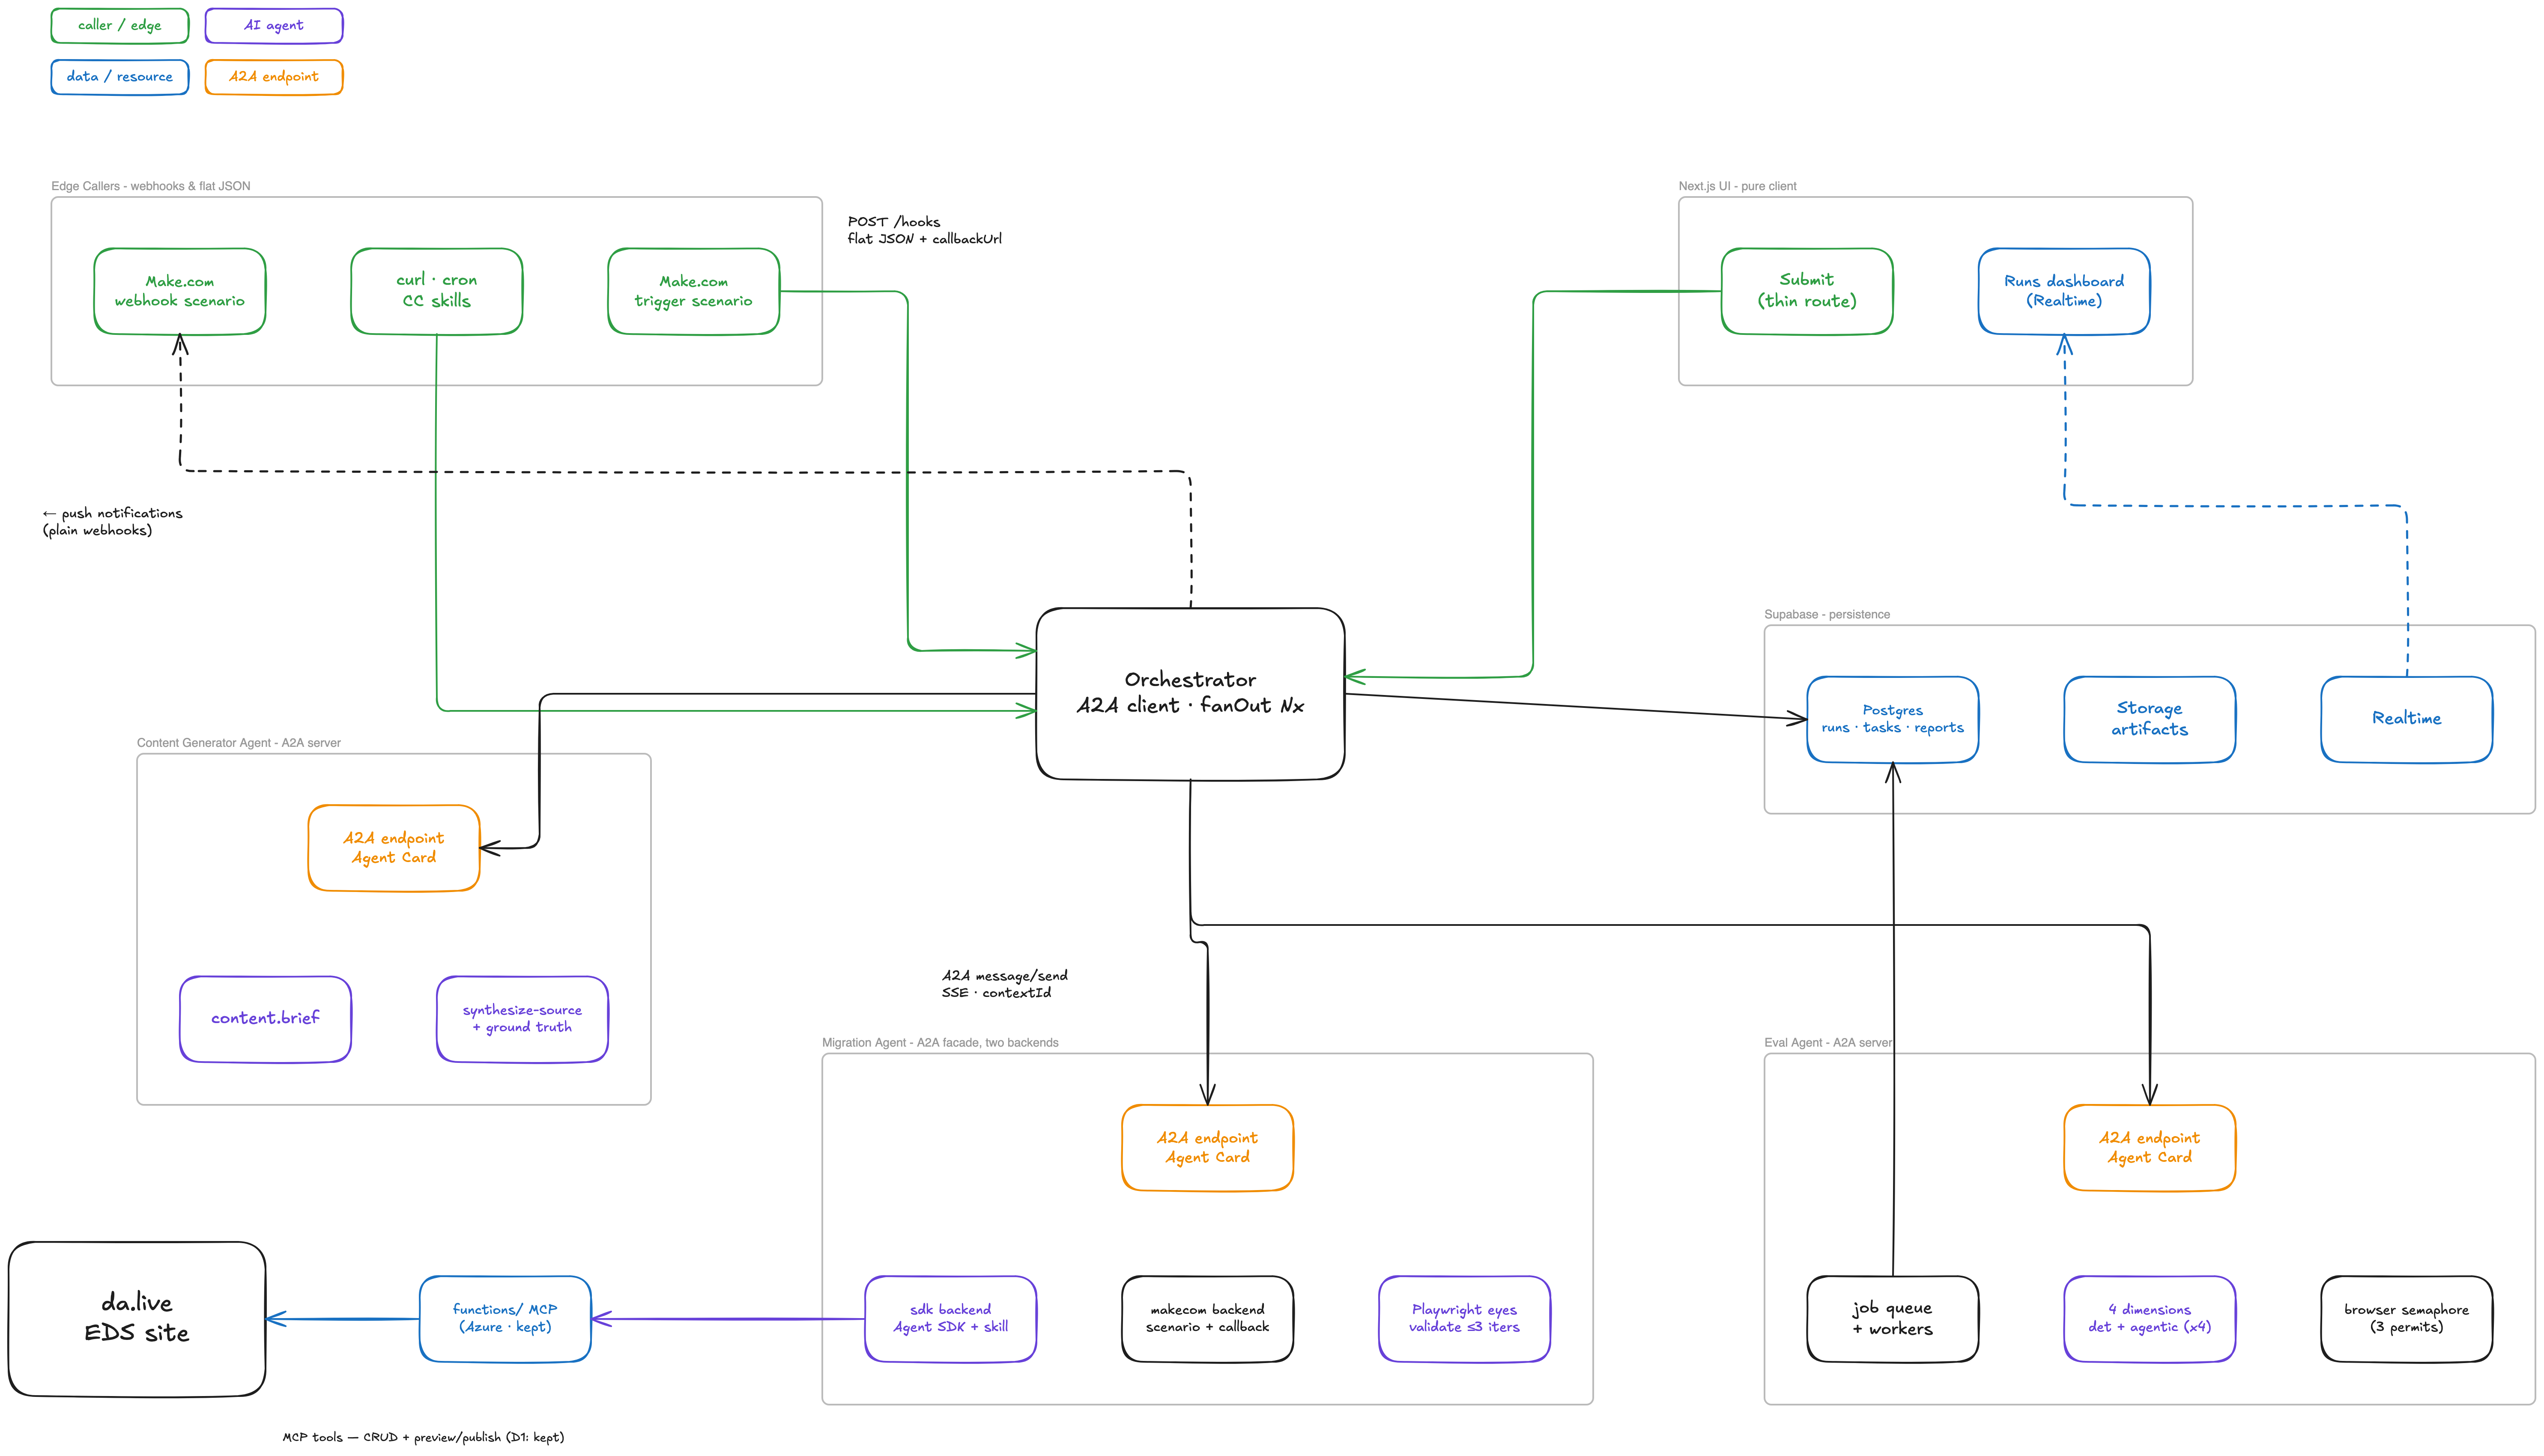
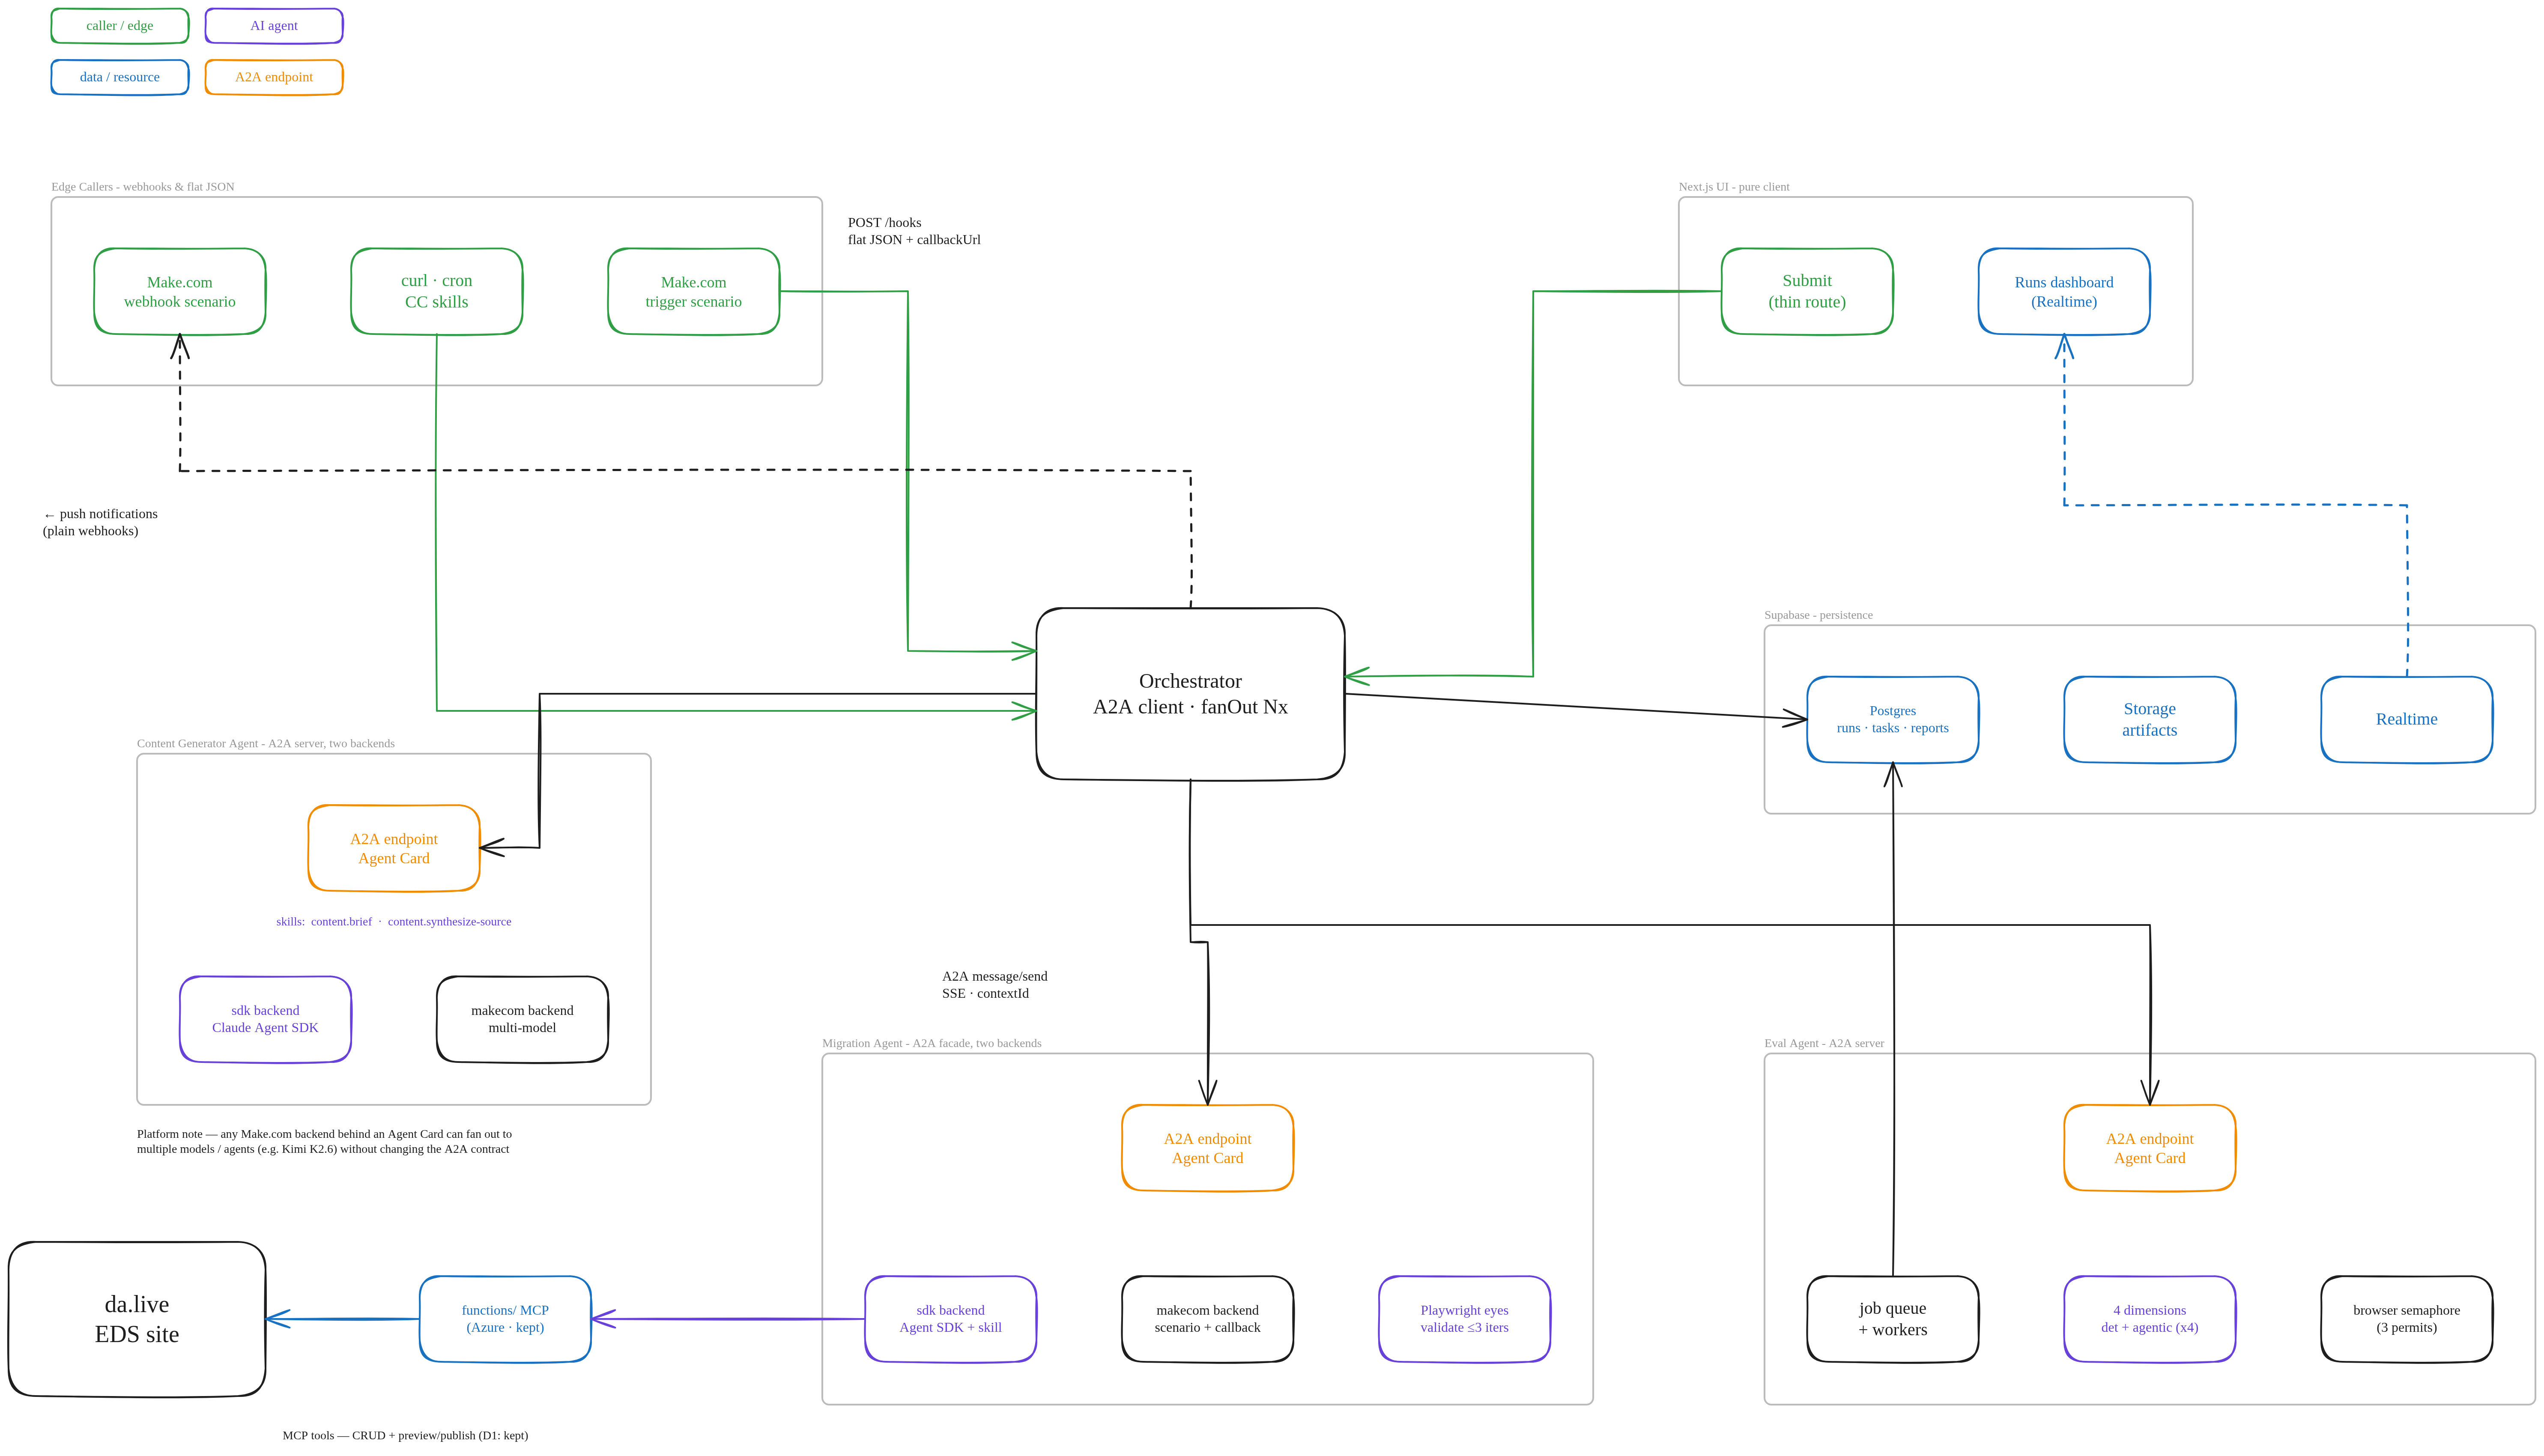
docs(a2a): one-card content-gen backends + intelligent orchestrator
Two design refinements to the A2A agent platform PRD and its diagrams:

Content generation as one Agent Card (architecture diagram + Parts 1/3/4):
- Content-Gen now mirrors the Migration agent: a single Agent Card over
  two pluggable backends (Claude Agent SDK; Make.com scenario), instead of
  being shown as two loose skill boxes.
- Make.com stays a backend of the Migration agent too.
- New platform-wide note: any Make.com backend behind an Agent Card can
  fan out to multiple models/agents (e.g. Kimi K2.6) without changing the
  A2A contract. Documented once in Part 3, referenced from Parts 4/5 and
  the diagram legend.

Intelligent, non-deterministic orchestrator (closed-loop diagram + Parts 1/6):
- Recast the closed-loop pipeline from a fixed Generate -> Migrate ->
  Evaluate -> Aggregate flow into an intelligent content orchestrator that
  enters and exits at any stage based on intent + current content state.
- Work no longer must start at generation (content exists -> migrate;
  already migrated -> evaluate) and need not end in evaluation.
- Added an agentic-planner section and a routing table to Part 6; the
  explicit fanOut pipeline spec becomes opt-in deterministic mode for
  variance experiments. M3 milestone now tracks intelligent routing.

Both PNGs regenerated from the edited .excalidraw sources.

diff --git a/ai-docs/2026-06-05-a2a-agent-platform/part-6-orchestration-ui-rollout.md b/ai-docs/2026-06-05-a2a-agent-platform/part-6-orchestration-ui-rollout.md
@@ -2,12 +2,34 @@
 
 ## Orchestrator
 
-An **A2A client**, not a server — plain TypeScript that composes the three agents. Two faces:
+An **A2A client**, not a server — plain TypeScript that composes the three agents. But it is **not a fixed pipeline**: it is an *intelligent content orchestrator* that, given an intent and the current state of the content, decides which capabilities to invoke. Two faces:
 
 1. **CLI** (`agents/orchestrator`) — primary interface for development and the adaptTo() demo terminal moments
 2. **Thin HTTP trigger** — one endpoint so the UI (and Make.com, and cron) can launch pipelines
 
-### Pipeline Spec
+### Intelligent routing (default mode)
+
+The headline closed loop — *generate → migrate → evaluate* — is **one route, not the only one**. The orchestrator runs a small agentic planner (a Claude Agent SDK `query()` with the three Agent Cards as available tools) that inspects the request and the current state, then chooses the stages:
+
+| Starting state / intent | Route the orchestrator takes |
+|---|---|
+| Net-new, no source yet | Generate → Migrate → Evaluate |
+| Source already exists (PDF/URL/synthetic) | **Migrate → Evaluate** (skip generate) |
+| Already migrated to EDS | **Evaluate only** |
+| "Author this net-new content" (no quality gate asked for) | Generate → Migrate, **stop** (no eval) |
+| "Just generate a brief" | Generate, **stop** |
+| Fan-out consistency experiment | Generate → Migrate → Evaluate, **repeat Nx → aggregate** |
+
+Principles:
+
+- **Any subset, any order.** Generate, migrate, and evaluate are independently-addressable capabilities; the orchestrator calls only the ones the goal requires.
+- **No mandatory start.** Work does not have to begin at generation — if content already exists it begins at migrate; if already migrated it begins at evaluate.
+- **No mandatory end.** It need not finish in evaluation; it stops when the stated goal is met (a published page, a brief, a score — whatever was asked for).
+- **Deterministic when you want it.** For repeatable variance experiments, hand it an explicit pipeline spec (below) and it skips the planner — same agents, no improvisation. Intelligence is the default; determinism is opt-in.
+
+State detection inputs the planner reads: presence/type of `sourceLocation`, whether a `previewUrl`/published page already exists for the target slug (via the migration agent or a da.live lookup), and the explicit `goal` field on the request.
+
+### Pipeline Spec (explicit / deterministic mode)
 
 ```jsonc
 {
@@ -56,7 +78,7 @@ Versioning/deploy: keeps riding the existing tag-driven Oracle deploy (`deploy-c
 |---|---|---|---|
 | **M1 — Headless eval core** | end of June | `agents/eval-service` with engine moved, job queue, Supabase persistence, browser semaphore. A2A server with minimal `message/send` + `tasks/get`. | Part 2 definition of done |
 | **M2 — A2A complete + orchestrator MVP** | mid-July | `a2a-common` hardened: SSE streaming, push notifications, Supabase task store. Orchestrator CLI runs an eval-only batch (fanOut over a URL list — feature parity with today's batch mode). Make.com webhook round-trip proven on one toy task. | Old batch routes deletable; Make.com callback demo recorded |
-| **M3 — Closed loop 1x** | mid-August | Content-gen agent (both modes). Migration facade with `sdk` backend; `makecom` backend callback wired. One full synthesize → migrate → eval chain via orchestrator. | Part 4 + Part 5 definitions of done |
+| **M3 — Closed loop 1x + intelligent routing** | mid-August | Content-gen agent (both skills, `sdk` backend). Migration facade with `sdk` backend; `makecom` backend callback wired. One full synthesize → migrate → eval chain via orchestrator, **plus the agentic planner** that skips stages by state (source supplied → migrate→eval; already migrated → eval only; brief-only → stop). | Part 4 + Part 5 definitions of done; orchestrator demonstrates ≥3 distinct routes incl. a non-eval-terminating one |
 | **M4 — Nx + variance + UI v2** | end of August | `fanOut: 10` stable within concurrency budget; variance stats; Runs/Run-detail/Variance UI on Realtime; localStorage deleted. | 10x run completes unattended overnight; UI shows it live |
 | **M5 — Hardening + demo** | early September | Failure-path polish, seed demo content, scripted demo (CLI + UI + Supabase-MCP conversational query), talk materials. | Dry-run demo end-to-end twice without manual intervention |
 

diff --git a/ai-docs/2026-06-05-a2a-agent-platform/part-4-content-generator-agent.md b/ai-docs/2026-06-05-a2a-agent-platform/part-4-content-generator-agent.md
@@ -43,18 +43,33 @@ Generates a complete **synthetic "legacy" source page** — standalone HTML (opt
 
 `groundTruth` is the quiet superpower: the eval agent's content dimension can compare against *known-correct* extraction instead of re-parsing the source — a new optional `sourceType: "ground-truth"` input variant worth adding to `eval.run.v2` later. v1: just pass the `sourceUrl` as a normal webpage source.
 
+Both skills carry a `backend: "sdk" | "makecom"` field (default `"sdk"`), exactly as `migration.run` does (Part 5) — same contract, swappable runtime.
+
+## Backends (two, pluggable)
+
+Like the migration agent, content-gen is **one Agent Card over two backends**. The skill contract is identical; only the runtime changes.
+
+### Backend A — `sdk` (canonical)
+Claude Agent SDK `query()` directly in-process. Cheapest path, fully in-repo, no external dependency. The default for development and the variance experiments.
+
+### Backend B — `makecom`
+A Make.com scenario behind the same A2A facade (webhook trigger + callback, identical mechanics to Part 5's migration `makecom` backend). This is where **multi-model fan-out** lives: a Make.com scenario can route generation across several models/agents — e.g. the **Kimi K2.6** Chinese model — and the facade still completes one A2A task with the same artifact. See Part 3 for the platform-wide note: *any Make.com backend behind an Agent Card can use multiple models without changing the A2A contract.*
+
 ## Implementation
 
 ```
 agents/content-gen/
   src/
     a2a/          # standard wiring from a2a-common
-    skills/       # brief.ts, synthesize.ts — each a Claude Agent SDK query() invocation
+    skills/       # brief.ts, synthesize.ts — the skill-level logic (backend-agnostic)
+    backends/
+      sdk.ts      # Claude Agent SDK query() invocation
+      makecom.ts  # webhook trigger + callback receiver (multi-model capable)
     prompts/      # versioned JSON prompt files, same convention as eval-service prompts
     publish.ts    # Supabase Storage upload + public URL resolution
 ```
 
-- Claude Agent SDK `query()` with model `claude-sonnet-4-6`; `WebFetch`-style access only for reading the block library page; **no Playwright needed** (cheapest agent in the mesh — no browser permits required)
+- `sdk` backend: Claude Agent SDK `query()` with model `claude-sonnet-4-6`; `WebFetch`-style access only for reading the block library page; **no Playwright needed** (cheapest agent in the mesh — no browser permits required)
 - Brief mode is a near-pure LLM call; synthesize mode emits a single self-contained HTML file (inline CSS, picsum/placeholder images or generated SVG) — no asset pipeline in v1
 - Prompts versioned in-repo like `make-dot-com/` conventions (v1-brief.md etc.), but these ARE deployed with the service (unlike Make.com prompts)
 

diff --git a/ai-docs/2026-06-05-a2a-agent-platform/README.md b/ai-docs/2026-06-05-a2a-agent-platform/README.md
@@ -12,13 +12,15 @@
 
 Reboot the monorepo around **decoupled, independently-addressable AI agents** that communicate via the **A2A protocol** (Linux Foundation, spec v1.0):
 
-- **Content Generator Agent** (new) — generates content briefs and synthetic "legacy" source pages
-- **Migration Agent** (exists as Make.com prompt + skills) — authors content into da.live via the custom MCP server, validates with Playwright "agentic eyes"
+- **Content Generator Agent** (new) — generates content briefs and synthetic "legacy" source pages. One Agent Card, two pluggable backends (Claude Agent SDK; Make.com scenario), mirroring the Migration agent
+- **Migration Agent** (exists as Make.com prompt + skills) — authors content into da.live via the custom MCP server, validates with Playwright "agentic eyes". One Agent Card, two backends (Agent SDK; Make.com)
 - **Eval Agent** (exists, coupled) — extracted from the Next.js app into a headless, job-based, parallelizable service
-- **Orchestrator** (new) — A2A client that runs pipelines 1x or Nx (generate → migrate → eval), with concurrency budgets and variance reporting
+- **Orchestrator** (new) — an **intelligent** A2A client that, given an intent and a starting state, decides *which* of generate / migrate / evaluate are needed — it is not a fixed pipeline. Runs 1x or Nx with concurrency budgets and variance reporting
 - **UI** (exists, rebuilt as pure client) — Next.js reads Supabase; localStorage and in-memory batch Maps are retired
 
-The closed loop — *generate synthetic source → migrate to EDS → eval the result, 10 times in parallel, with aggregate scoring* — is the headline capability.
+The generate → migrate → eval closed loop — *synthesize source → migrate to EDS → eval the result, 10 times in parallel, with aggregate scoring* — is the headline capability, but it is **one route the orchestrator can take, not the only one**: when content already exists it starts at migrate; when content is already migrated it starts at evaluate; and it can stop after any stage once the goal is met.
+
+> **Agent Card pattern (platform-wide)**: a single Agent Card fronts pluggable backends (Agent SDK or Make.com). Any Make.com backend can itself fan out to multiple models/agents — e.g. the Kimi K2.6 Chinese model — without changing the A2A contract.
 
 ## Decisions Log (2026-06-05)
 
@@ -35,9 +37,9 @@ The closed loop — *generate synthetic source → migrate to EDS → eval the r
 | 1 | [part-1-architecture.md](./part-1-architecture.md) | System overview, agent roster, unifying interface, monorepo layout, tech stack |
 | 2 | [part-2-eval-service.md](./part-2-eval-service.md) | Decoupling the eval engine: current coupling audit, headless service, Supabase schema, browser pool, parallelization |
 | 3 | [part-3-a2a-protocol-layer.md](./part-3-a2a-protocol-layer.md) | A2A SDK adoption: Agent Cards, Task lifecycle, streaming, push notifications, Make.com interop, auth |
-| 4 | [part-4-content-generator-agent.md](./part-4-content-generator-agent.md) | New agent: brief mode + synthetic-source mode, contracts, prompts |
-| 5 | [part-5-migration-agent.md](./part-5-migration-agent.md) | Wrapping migration as an A2A agent with two backends (Make.com scenario, Agent SDK + skills); Playwright concurrency |
-| 6 | [part-6-orchestration-ui-rollout.md](./part-6-orchestration-ui-rollout.md) | Orchestrator, Nx fan-out + variance reporting, UI rebuild, milestones to adaptTo(), risks, open questions |
+| 4 | [part-4-content-generator-agent.md](./part-4-content-generator-agent.md) | New agent: brief mode + synthetic-source mode, two backends (Agent SDK / Make.com), contracts, prompts |
+| 5 | [part-5-migration-agent.md](./part-5-migration-agent.md) | Wrapping migration as an A2A agent with two backends (Agent SDK + skills, Make.com scenario); Playwright concurrency |
+| 6 | [part-6-orchestration-ui-rollout.md](./part-6-orchestration-ui-rollout.md) | Orchestrator (intelligent routing + Nx fan-out + variance reporting), UI rebuild, milestones to adaptTo(), risks, open questions |
 
 ## In Scope
 

diff --git a/ai-docs/2026-06-05-a2a-agent-platform/part-1-architecture.md b/ai-docs/2026-06-05-a2a-agent-platform/part-1-architecture.md
@@ -4,11 +4,13 @@
 
 One **unifying interface** (the A2A Task) over **decoupled capabilities** (agents). Anything that can speak HTTP + JSON-RPC can drive any agent: the orchestrator, Make.com, a Claude Code skill, curl, or another agent. Anything that can receive a webhook can be notified when work completes. Run a pipeline once interactively, or fan it out 10x and aggregate — same interface, no code change in the agents.
 
+The driver above the agents is an **intelligent orchestrator**, not a hard-coded pipeline: given an intent and the current state of the content, it decides which capabilities to invoke (generate, migrate, evaluate — any subset, any order) and stops when the goal is met. Each capability sits behind a single **Agent Card** that can dispatch to pluggable backends (Claude Agent SDK or a Make.com scenario), so the same task contract runs on either runtime.
+
 ## Goals
 
 1. **Decouple** the eval engine from the Next.js UI, browser localStorage, and in-memory state
 2. **Learn A2A** hands-on: Agent Cards, Task lifecycle, SSE streaming, push notifications, the official JS SDK
-3. **Close the loop**: content generation → migration → evaluation as one automatable pipeline
+3. **Intelligent orchestration**: a content orchestrator that decides which of generate / migrate / evaluate are needed for a given intent and starting state — the closed loop (generate → migrate → eval) is one route it can take, not a fixed sequence, and it need not end in evaluation
 4. **Parallelize**: Nx pipeline runs with bounded browser/CPU concurrency on the 4-CPU Oracle ARM VM
 5. **Measure variance**: same input migrated 10x and evaluated 10x → mean/stddev per eval dimension → migration-agent *consistency* becomes a first-class metric (this is the genuinely novel demo for adaptTo())
 
@@ -26,8 +28,8 @@ One **unifying interface** (the A2A Task) over **decoupled capabilities** (agent
                                 │            (docker compose)                │
    ┌──────────────┐  A2A tasks  │  ┌──────────────┐      ┌────────────────┐  │
    │ Orchestrator │────────────────▶│ Content-Gen  │      │  Eval Agent    │  │
-   │ (A2A client, │             │  │ Agent (A2A)  │      │  (A2A server,  │  │
-   │  CLI/service)│────────────────────────────────────▶ │  worker pool,  │  │
+   │ (intelligent │             │  │ (2 backends) │      │  (A2A server,  │  │
+   │  A2A client) │────────────────────────────────────▶ │  worker pool,  │  │
    └──────┬───────┘             │  └──────────────┘      │  browser pool) │  │
           │                     │  ┌──────────────┐      └───────┬────────┘  │
           │                     │  │ Migration    │              │           │
@@ -55,9 +57,9 @@ One **unifying interface** (the A2A Task) over **decoupled capabilities** (agent
 | Agent | Status | A2A role | Core capability | Backend |
 |-------|--------|----------|-----------------|---------|
 | **Eval Agent** | Extract from `content-authoring-eval/src/lib/` | Server | 4-dimension page evaluation (structure, accessibility, content, visual), single + batch | Claude Agent SDK + Playwright (deterministic + agentic) |
-| **Migration Agent** | Facade over existing implementations | Server | Source → EDS page on da.live, with self-validation loop | Two pluggable backends: Make.com scenario; Agent SDK + `da-live-author-playwright` skill |
-| **Content Generator Agent** | New | Server | Briefs and synthetic "legacy" source pages | Claude Agent SDK |
-| **Orchestrator** | New | Client | Pipeline composition, Nx fan-out, aggregation | Plain TypeScript + A2A SDK client |
+| **Migration Agent** | Facade over existing implementations | Server | Source → EDS page on da.live, with self-validation loop | Two pluggable backends: Agent SDK + `da-live-author-playwright` skill; Make.com scenario (multi-model) |
+| **Content Generator Agent** | New | Server | Briefs and synthetic "legacy" source pages | Two pluggable backends: Claude Agent SDK; Make.com scenario (multi-model) |
+| **Orchestrator** | New | Client | Intelligent routing (decides stages from intent + state), pipeline composition, Nx fan-out, aggregation | Plain TypeScript + A2A SDK client (agentic planner) |
 
 ## The Unifying Interface
 

diff --git a/ai-docs/2026-06-05-a2a-agent-platform/part-3-a2a-protocol-layer.md b/ai-docs/2026-06-05-a2a-agent-platform/part-3-a2a-protocol-layer.md
@@ -93,6 +93,15 @@ Make.com scenario B: [custom webhook B] → task result JSON → next action
 
 **Principle: A2A is the internal mesh protocol; the edge speaks flat webhooks/REST through one adapter.** Agents and the orchestrator talk full A2A to each other (cards, streaming, contexts); external callers get the simplest possible surface. (For the talk: demo one raw JSON-RPC call from Make.com as a curiosity, run production flows through the shim.)
 
+### Platform-wide note: Make.com as a multi-model backend
+
+Make.com appears in this platform in **two distinct roles** — don't conflate them:
+
+1. **Edge caller** (above): Make.com *invokes* an agent via the shim and receives the result via a webhook. This is Make.com driving the mesh from outside.
+2. **Backend behind an Agent Card**: the content-gen and migration agents each expose a `backend: "sdk" | "makecom"` switch (Parts 4–5). When `makecom` is selected, the agent facade delegates the work to a Make.com scenario, then completes the same A2A task with the same artifact.
+
+Role 2 is where the **Agent Card abstraction pays off**: a single card hides whichever runtime executes the task. Critically, a Make.com backend can itself **orchestrate multiple models/agents** inside its scenario — e.g. routing across Claude and the **Kimi K2.6** Chinese model, or running a multi-agent ensemble — and **none of that leaks through the A2A contract**. Callers see one skill, one task, one artifact; the model mix is a backend implementation detail. This holds for any current or future Make.com backend in the mesh.
+
 ## Public Exposure
 
 Compose services bind to an internal network. One reverse-proxy (Caddy, already-ish present on the VM) exposes:

diff --git a/ai-docs/2026-06-05-a2a-agent-platform/part-5-migration-agent.md b/ai-docs/2026-06-05-a2a-agent-platform/part-5-migration-agent.md
@@ -67,6 +67,8 @@ Flow:
 
 Required Make.com change: **one added HTTP module** at the end of the scenario (the callback), plus accepting the callback URL as an input var. The 300s timeout stops mattering because the facade, not Make.com, owns task state.
 
+Because the `makecom` backend sits behind the Agent Card, the scenario is free to **fan out across multiple models/agents internally** (e.g. routing some steps to the Kimi K2.6 Chinese model) without changing `migration.run.v1` — see the platform-wide note in [Part 3](./part-3-a2a-protocol-layer.md#platform-wide-note-makecom-as-a-multi-model-backend). The same applies to the content-gen `makecom` backend (Part 4).
+
 ## Multithreading / "agentic eyes" at Nx
 
 - Run isolation already exists via `folderPostfix` (distinct da.live folders per run) — the orchestrator generates unique postfixes per fan-out branch